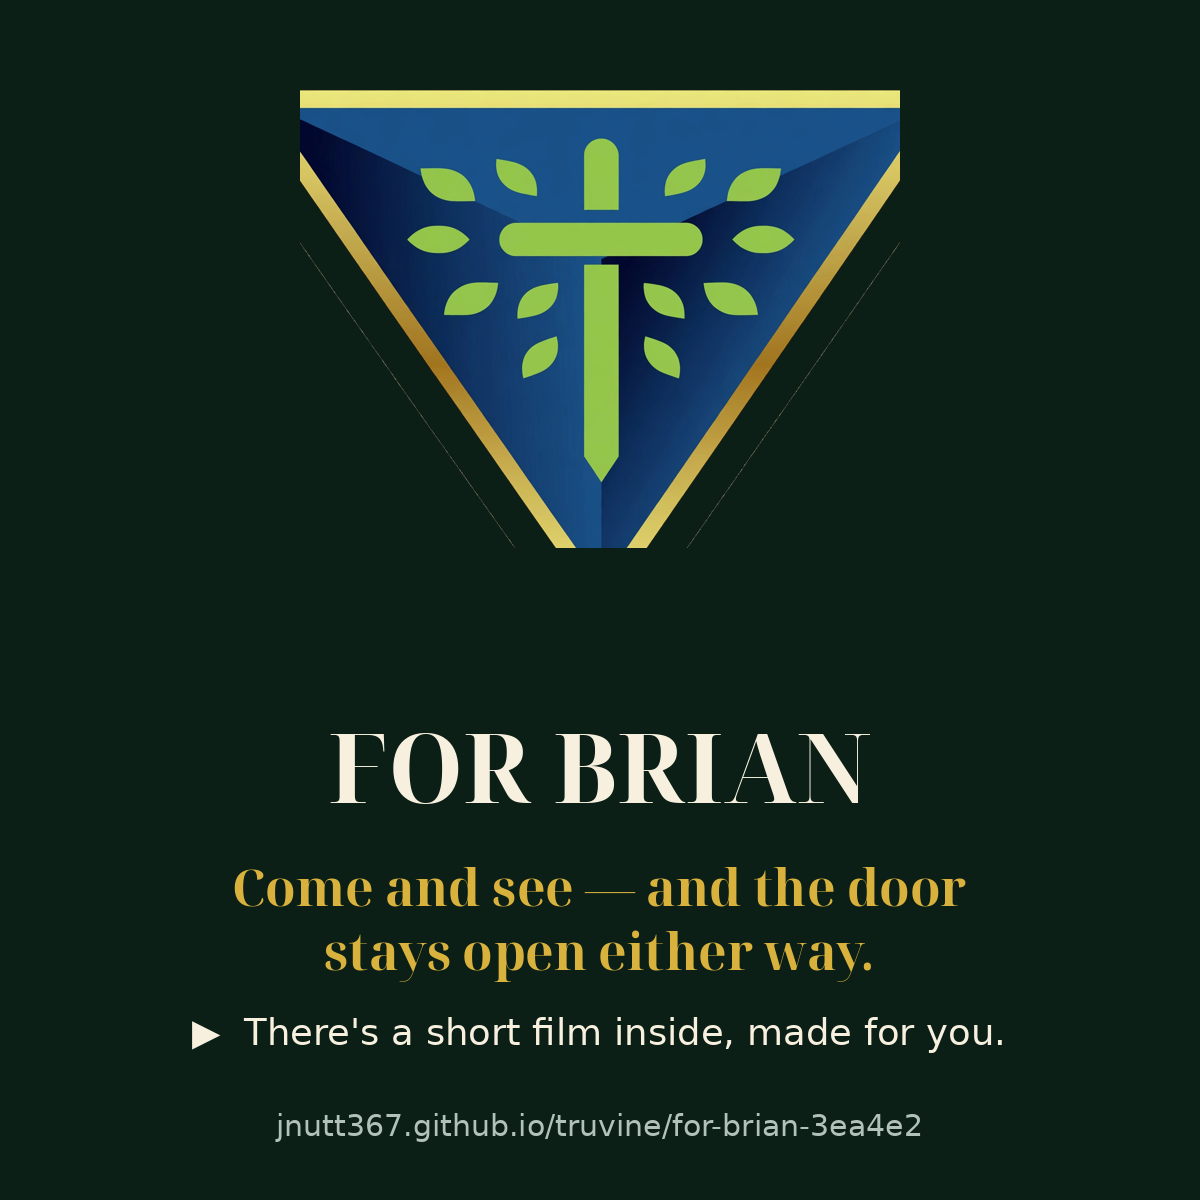
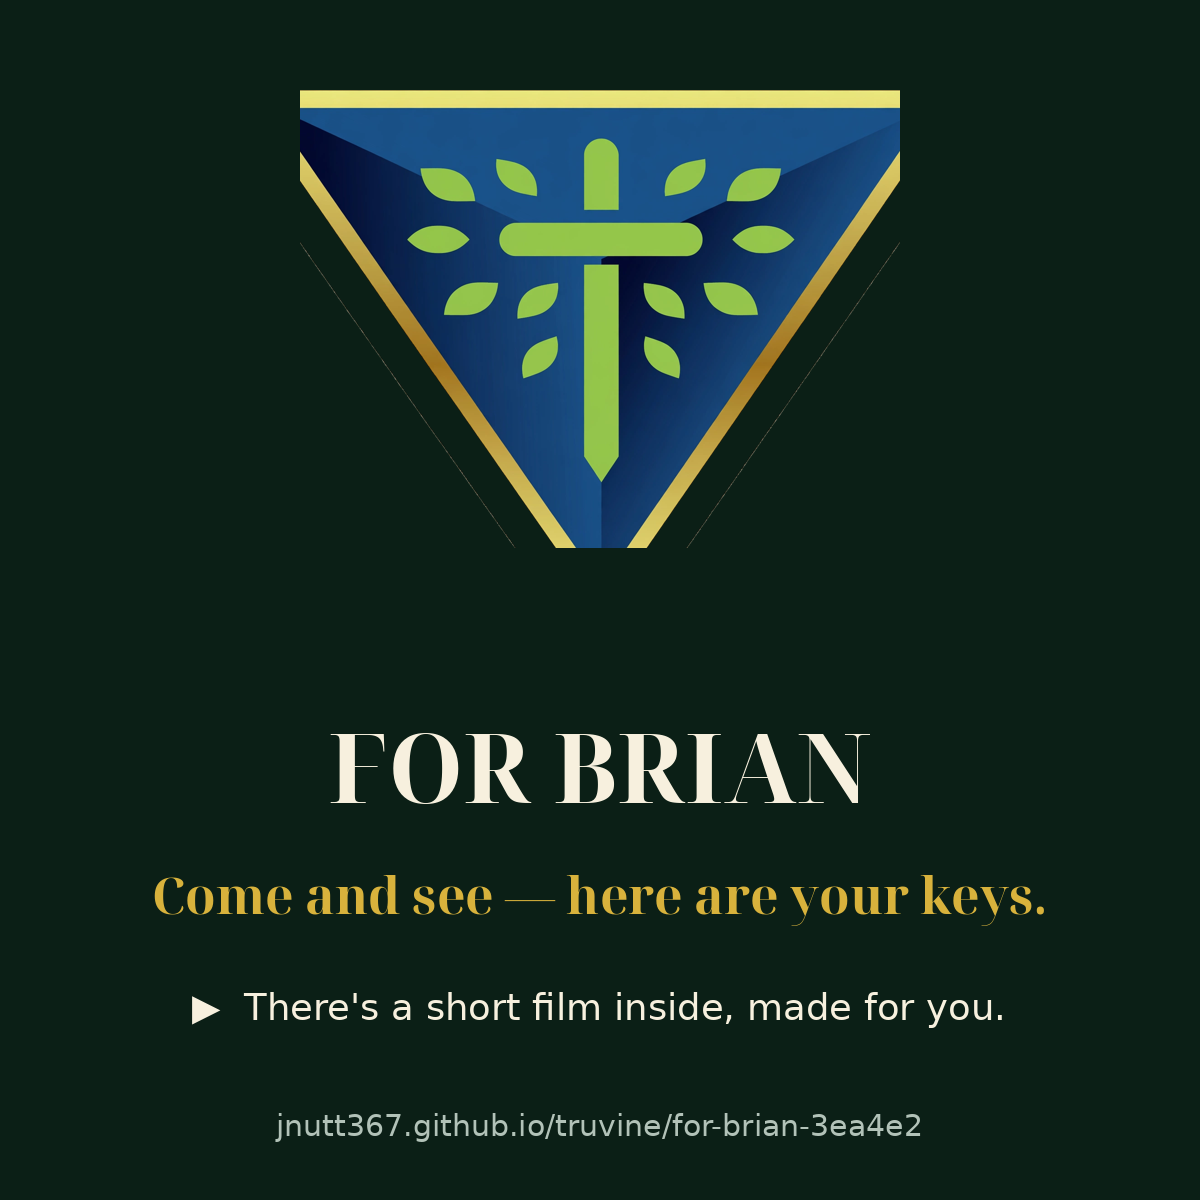
For Brian — coherence pass: keys, not open doors (Jason's catch, Oct 20, 2026)

Changed region(s): [[0.1233, 0.7092, 0.8633, 0.8942]]

diff --git a/for-brian-3ea4e2/index.html b/for-brian-3ea4e2/index.html
@@ -10,14 +10,14 @@
 <meta property="og:type" content="website">
 <meta property="og:url" content="https://jnutt367.github.io/truvine/for-brian-3ea4e2/">
 <meta property="og:title" content="For Brian — from your brother">
-<meta property="og:description" content="A letter, a short film made for you, and a few keys — come and see.">
+<meta property="og:description" content="A letter, a short film made for you, and a set of keys with your name on them — given, not lent. Come and see.">
 <meta property="og:image" content="https://jnutt367.github.io/truvine/for-brian-3ea4e2/assets/for-brian-card.png">
 <meta property="og:image:width" content="1200">
 <meta property="og:image:height" content="1200">
 <meta property="og:image:alt" content="The TruVINE emblem — For Brian">
 <meta name="twitter:card" content="summary_large_image">
 <meta name="twitter:title" content="For Brian — from your brother">
-<meta name="twitter:description" content="A letter, a short film made for you, and a few keys — come and see.">
+<meta name="twitter:description" content="A letter, a short film made for you, and a set of keys with your name on them — given, not lent. Come and see.">
 <meta name="twitter:image" content="https://jnutt367.github.io/truvine/for-brian-3ea4e2/assets/for-brian-card.png">
 <meta name="twitter:image:alt" content="The TruVINE emblem — For Brian">
 <link rel="icon" type="image/jpeg" href="assets/favicon-192.jpg">
@@ -236,7 +236,7 @@
         <h2 id="keys-h" class="serif">Brian&rsquo;s Keys</h2>
         <div class="rule" aria-hidden="true"></div>
       </div>
-      <p class="ring-frame">These are keys, Brian &mdash; not doors anyone will push you through. Keep them in your pocket. Any one of them, any order, any day &mdash; or none at all. They&rsquo;ll keep.</p>
+      <p class="ring-frame">These are your keys, Brian &mdash; given, not lent. Keep them in your pocket and let yourself in like family: any one of them, any order, any day &mdash; or none at all. Nobody&rsquo;s watching, and they&rsquo;ll keep.</p>
       <ul class="keys">
         <li class="key">
           <a href="https://word-of-god-risen.vercel.app/">
